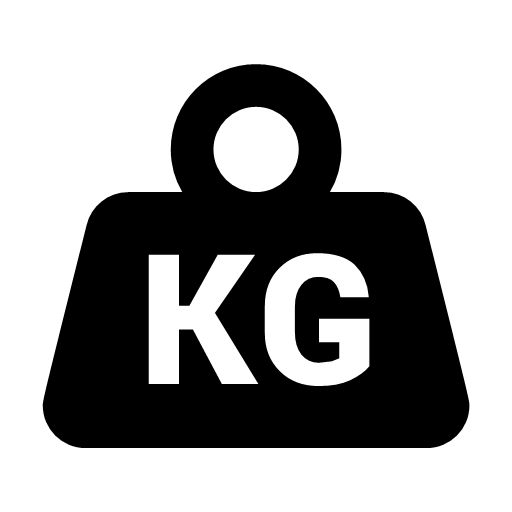
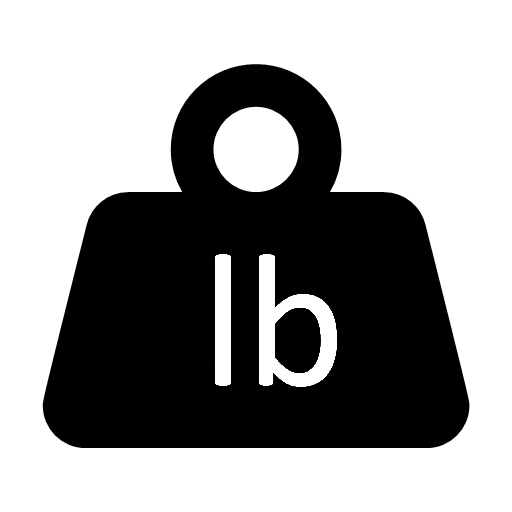
kg to lb

Changed region(s): [[0.2812, 0.4688, 0.75, 0.7812]]

diff --git a/src/pages/Campaign/id/details/components/inventory/Profile.tsx b/src/pages/Campaign/id/details/components/inventory/Profile.tsx
@@ -38,10 +38,10 @@ const Profile = ({
         </div>
         <Backpack
           strength_box={character_strength}
-          weightless_box={Math.round((character_strength * 5) / 2.2)}
-          little_heavy_box={Math.round((character_strength * 10) / 2.2)}
-          very_heavy_box={Math.round((character_strength * 15) / 2.2)}
-          total_weight_box={Math.round((character_strength * 30) / 2.2)}
+          weightless_box={Math.round(character_strength * 5)}
+          little_heavy_box={Math.round(character_strength * 10)}
+          very_heavy_box={Math.round(character_strength * 15)}
+          total_weight_box={Math.round(character_strength * 30)}
           gold_box={character_gold}
           carrying_weight={carrying_weight}
         />

diff --git a/src/pages/Campaign/id/details/components/inventory/AddItemDialog.tsx b/src/pages/Campaign/id/details/components/inventory/AddItemDialog.tsx
@@ -87,7 +87,7 @@ const AddItemDialog: React.FC<AddItemDialogProps> = ({ open, onClose }) => {
               {error && <p className="error">{t("NEW_ITEM_NUMBER_ERROR")}</p>}
             </label>
             <label>
-              {t("NEW_ITEM_WEIGHT_LABEL")}*
+              {t("NEW_ITEM_WEIGHT_LABEL")}* (lb)
               <input
                 type="text"
                 value={ItemWeight}

diff --git a/src/pages/Campaign/id/details/InventoryDetails.tsx b/src/pages/Campaign/id/details/InventoryDetails.tsx
@@ -18,8 +18,8 @@ export default function InventoryDetails({ content }: InventoryDetailsProps) {
 
   const getCarryingWeight = () => {
     let carryingWeight = 0;
-    carryingWeight += content.playerGold * 0.009;
-    
+    carryingWeight += content.playerGold * 0.02;
+
     if (!content.inventory) return carryingWeight;
 
     Object.values(content.inventory).forEach((item) => {
